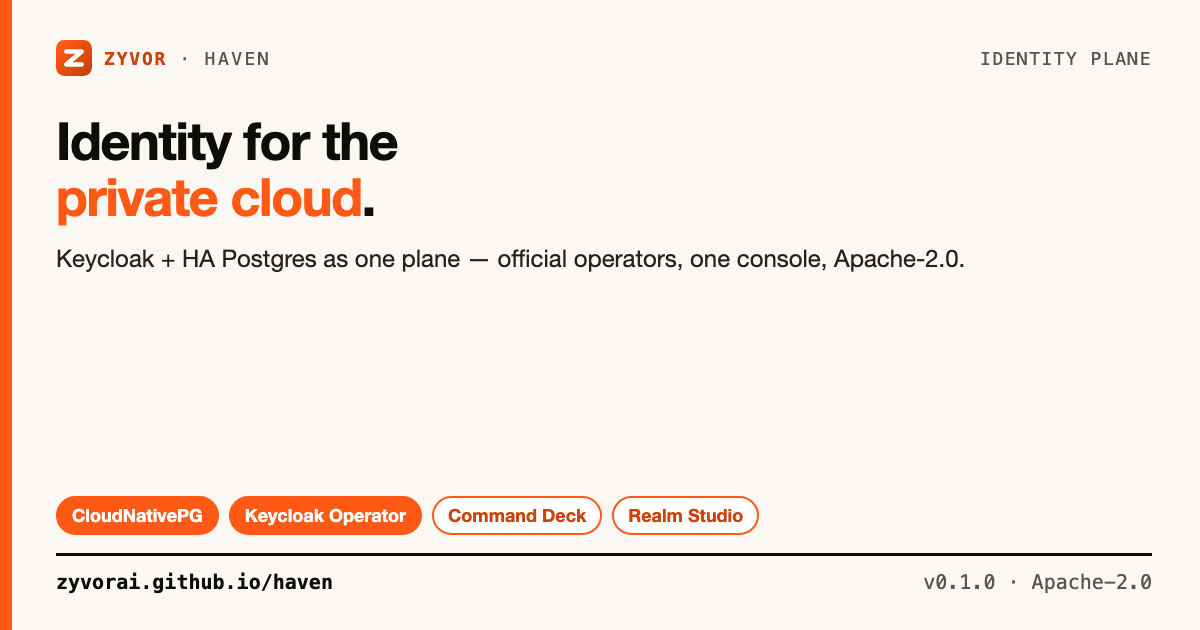
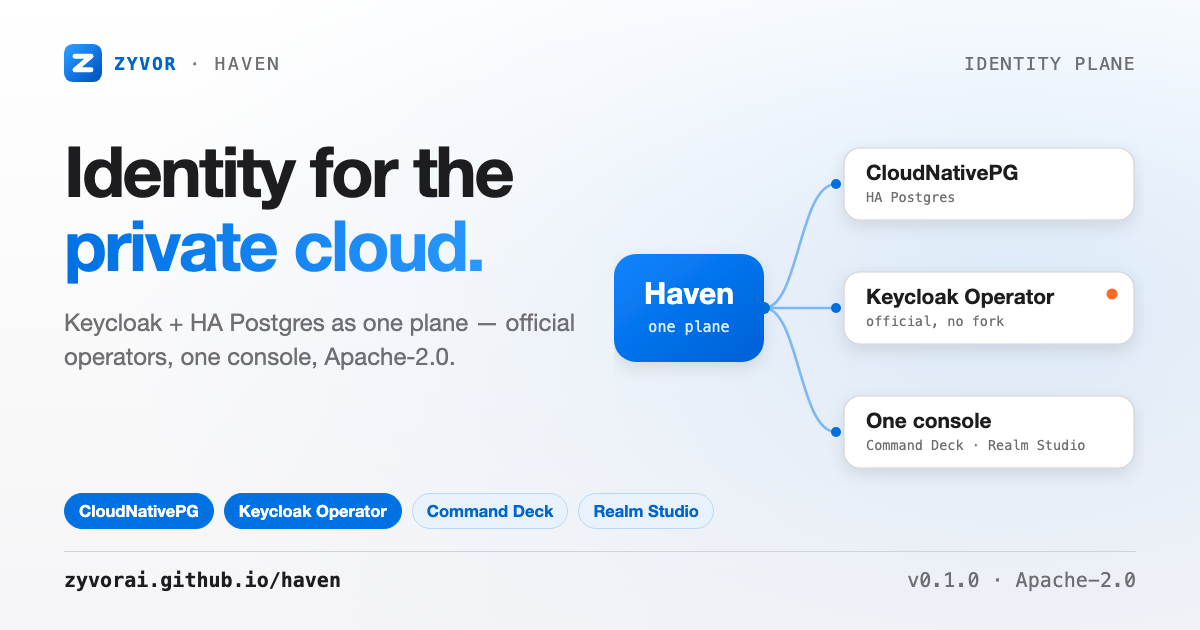
docs(social): apple-style blue/white cards, dark variant, build script
Restyle the share and 16:9 cards in the blue/white palette with an inline blue
Z mark and a single orange dot per image, add a dark share card for the README
<picture>, extend build-social-card.sh to render it, and document the palette,
files and the manual GitHub Social preview upload. Facts unchanged (v0.1.0 from
Chart.yaml, Apache-2.0).

Changed region(s): [[0.0, 0.0, 0.9867, 1.0], [0.8017, 0.0603, 0.9558, 0.1206]]

diff --git a/docs/social/haven-social-card.html b/docs/social/haven-social-card.html
@@ -4,75 +4,80 @@
 <meta charset="utf-8">
 <title>Haven social card</title>
 <!--
-  1600x900 (16:9) card for LinkedIn and X, in the Zyvor brochure look.
-  Every claim is already sourced in the README / docs.
+  1600x900 (16:9) card for LinkedIn and X. Every claim is already sourced in the README / docs.
+  Palette: white/#f5f5f7, ink #1d1d1f, secondary #6e6e73, hairline #d2d2d7, blue #0071e3 -> #2997ff.
+  Orange (#ff6a2a) appears once, as a single dot in the plane strip.
   Build:  ./docs/social/build-social-card.sh   ->  haven-social-card.jpg
 -->
 <style>
-  :root { --ink:#0d0d0c; --soft:#5a544c; --signal:#ff5a15; --deep:#cc420a; --line:#e7ded2; --warm:#fbf7f2; --pale:#fff1e9;
-    --blue:#2b5fd9; --green:#1f7a4d;
+  :root { --ink:#1d1d1f; --soft:#6e6e73; --hair:#d2d2d7; --blue:#0071e3; --blue2:#2997ff; --deep:#0066cc; --wash:#f5f5f7;
+    --pill:#e8f2fd; --pill-line:#b9d7f7; --orange:#ff6a2a;
     --sans:'Helvetica Neue',Helvetica,Arial,sans-serif; --mono:'SF Mono',Menlo,Consolas,monospace; }
   * { box-sizing:border-box; }
   html,body { margin:0; padding:0; }
-  body { width:1600px; height:900px; overflow:hidden; background:var(--warm); color:var(--ink); font-family:var(--sans); position:relative; }
-  .bar { position:absolute; left:0; top:0; bottom:0; width:14px; background:var(--signal); }
-  .wrap { position:absolute; left:72px; right:64px; top:48px; bottom:40px; display:flex; flex-direction:column; }
+  body { width:1600px; height:900px; overflow:hidden; color:var(--ink); font-family:var(--sans); position:relative;
+    background:radial-gradient(1100px 620px at 88% 12%, rgba(0,113,227,.10), rgba(0,113,227,.03) 55%, rgba(0,113,227,0) 100%), linear-gradient(180deg,#fff 0%,var(--wash) 100%); }
+  .wrap { position:absolute; left:80px; right:80px; top:52px; bottom:44px; display:flex; flex-direction:column; }
 
   .top { display:flex; align-items:center; gap:14px; font-family:var(--mono); font-size:20px; letter-spacing:.14em; text-transform:uppercase; color:var(--soft); }
-  .top img { height:40px; }
+  .top svg { width:44px; height:44px; }
   .top b { color:var(--deep); letter-spacing:.1em; }
   .top .r { margin-left:auto; letter-spacing:.08em; }
 
-  h1 { margin:26px 0 0; font-size:64px; line-height:1.06; letter-spacing:-.025em; font-weight:700; max-width:1440px; }
-  h1 em { font-style:normal; color:var(--signal); }
-  .sub { margin:16px 0 0; font-size:27px; line-height:1.36; color:#26231f; max-width:1320px; }
+  h1 { margin:34px 0 0; font-size:76px; line-height:1.05; letter-spacing:-.035em; font-weight:700; max-width:1440px; }
+  h1 em { font-style:normal; background:linear-gradient(90deg,var(--blue),var(--blue2)); -webkit-background-clip:text; background-clip:text; color:transparent; }
+  .sub { margin:18px 0 0; font-size:27px; line-height:1.4; color:var(--soft); max-width:1280px; }
 
-  .flow { margin-top:34px; display:grid; grid-template-columns:repeat(5,1fr); gap:34px; }
-  .step { position:relative; background:#fff; border:2.5px solid var(--c); border-radius:16px; padding:18px 20px 18px 24px; min-height:222px; }
-  .step::before { content:""; position:absolute; left:0; top:0; bottom:0; width:9px; background:var(--c); border-radius:13px 0 0 13px; }
-  .step:not(:last-child)::after { content:""; position:absolute; right:-31px; top:50%; width:0; height:0; margin-top:-11px;
-    border-left:16px solid var(--soft); border-top:11px solid transparent; border-bottom:11px solid transparent; }
-  .lane { display:inline-block; font-family:var(--mono); font-size:15px; font-weight:700; letter-spacing:.12em; color:#fff; background:var(--c); padding:3px 10px; border-radius:11px; }
-  .n { float:right; width:34px; height:34px; border-radius:50%; background:var(--c); color:#fff; font-weight:700; font-size:19px; line-height:34px; text-align:center; }
-  .step h3 { margin:14px 0 8px; font-size:27px; line-height:1.14; letter-spacing:-.01em; }
-  .step p { margin:0; font-size:20.5px; line-height:1.34; color:var(--soft); }
-  .k { --c:var(--signal); } .a { --c:var(--ink); } .c { --c:var(--blue); } .o { --c:var(--green); } .o2 { --c:var(--deep); }
+  .flow { margin-top:38px; display:grid; grid-template-columns:repeat(5,1fr); gap:30px; }
+  .step { position:relative; background:#fff; border:1.5px solid var(--hair); border-radius:20px; padding:20px 22px 20px 22px; min-height:236px;
+    box-shadow:0 10px 24px rgba(0,0,0,.07), 0 1px 3px rgba(0,0,0,.05); }
+  .step:not(:last-child)::after { content:""; position:absolute; right:-25px; top:50%; width:0; height:0; margin-top:-9px;
+    border-left:13px solid #9cc7f5; border-top:9px solid transparent; border-bottom:9px solid transparent; }
+  .lane { display:inline-block; font-family:var(--mono); font-size:14.5px; font-weight:700; letter-spacing:.12em; color:var(--deep); background:var(--pill); border:1px solid var(--pill-line); padding:3px 10px; border-radius:11px; }
+  .n { float:right; width:34px; height:34px; border-radius:50%; background:linear-gradient(135deg,var(--blue2),var(--blue)); color:#fff; font-weight:700; font-size:18px; line-height:34px; text-align:center; }
+  .step h3 { margin:16px 0 8px; font-size:27px; line-height:1.14; letter-spacing:-.015em; }
+  .step p { margin:0; font-size:20px; line-height:1.36; color:var(--soft); }
+  .step p b { color:var(--ink); }
+  .step code { font-family:var(--mono); font-size:.9em; }
 
-  .attr { margin-top:22px; display:flex; align-items:center; gap:16px; background:var(--ink); color:#f3ede4; border-radius:12px; padding:13px 22px; font-family:var(--mono); font-size:22px; white-space:nowrap; }
-  .attr .tag { color:var(--signal); font-weight:700; letter-spacing:.1em; font-size:16px; }
-  .attr .why { margin-left:auto; color:#a39a8d; font-size:15px; letter-spacing:.06em; text-transform:uppercase; }
+  .attr { margin-top:26px; display:flex; align-items:center; gap:16px; background:var(--ink); color:#f5f5f7; border-radius:16px; padding:15px 24px; font-family:var(--mono); font-size:22px; white-space:nowrap; }
+  .attr .tag { color:#64b5ff; font-weight:700; letter-spacing:.1em; font-size:16px; display:flex; align-items:center; gap:10px; }
+  .attr .tag i { display:inline-block; width:10px; height:10px; border-radius:50%; background:var(--orange); }
+  .attr .why { margin-left:auto; color:#a1a1a6; font-size:15px; letter-spacing:.06em; text-transform:uppercase; }
 
-  .chips { margin-top:auto; padding-top:22px; display:flex; flex-wrap:wrap; gap:10px; }
-  .chip { font-size:20px; font-weight:700; padding:5px 14px; border-radius:20px; background:var(--signal); color:#fff; letter-spacing:.02em; border:2px solid var(--signal); }
-  .chip.g { background:#fff; color:var(--deep); border:2px solid var(--signal); }
+  .chips { margin-top:auto; padding-top:24px; display:flex; flex-wrap:wrap; gap:10px; }
+  .chip { font-size:20px; font-weight:700; padding:7px 18px; border-radius:24px; background:var(--blue); color:#fff; letter-spacing:.01em; border:1.5px solid var(--blue); }
+  .chip.g { background:var(--pill); color:var(--deep); border:1.5px solid var(--pill-line); }
 
-  .foot { margin-top:18px; padding-top:14px; border-top:3px solid var(--ink); display:flex; align-items:center; font-family:var(--mono); font-size:22px; color:var(--soft); }
+  .foot { margin-top:20px; padding-top:16px; border-top:1px solid var(--hair); display:flex; align-items:center; font-family:var(--mono); font-size:22px; color:var(--soft); }
   .foot b { color:var(--ink); }
   .foot .r { margin-left:auto; }
 </style>
 </head>
 <body>
-<div class="bar"></div>
 <div class="wrap">
-  <div class="top"><img src="../assets/readme/zyvor-logo.svg" alt=""><b>Zyvor</b><span>&middot;</span><span>Haven</span><span class="r">Identity plane &middot; Private cloud</span></div>
+  <div class="top">
+    <svg viewBox="0 0 64 64" role="img" aria-label="Zyvor"><defs><linearGradient id="zg" x1="8" y1="8" x2="56" y2="56" gradientUnits="userSpaceOnUse"><stop offset="0" stop-color="#2997ff"/><stop offset="1" stop-color="#0058c8"/></linearGradient></defs><rect width="64" height="64" rx="15" fill="url(#zg)"/><path d="M18.5,20.5 45.5,20.5 18.5,43.5 45.5,43.5" fill="none" stroke="#fff" stroke-width="8.3" stroke-linecap="round" stroke-linejoin="round"/></svg>
+    <b>Zyvor</b><span>&middot;</span><span>Haven</span><span class="r">Identity plane &middot; Private cloud</span>
+  </div>
 
-  <h1>Identity for the <em>private cloud</em>.</h1>
+  <h1>Identity for the <em>private cloud.</em></h1>
   <p class="sub">One intent. One console. Official Keycloak + HA Postgres that actually ship together — no forks, no scavenger-hunt first boot.</p>
 
   <div class="flow">
-    <div class="step k"><span class="lane">COMPOSE</span><span class="n">1</span>
+    <div class="step"><span class="lane">COMPOSE</span><span class="n">1</span>
       <h3>One plane</h3><p>CloudNativePG and the Keycloak Operator under one lifecycle. Database is not “bring your own.”</p></div>
-    <div class="step a"><span class="lane">DEPLOY</span><span class="n">2</span>
+    <div class="step"><span class="lane">DEPLOY</span><span class="n">2</span>
       <h3>Overlays today</h3><p><b>deploy/overlays/{dev,prod}</b> now; <b>IdentityPlane</b> CR when the controller ships in v1.</p></div>
-    <div class="step c"><span class="lane">BOOTSTRAP</span><span class="n">3</span>
+    <div class="step"><span class="lane">BOOTSTRAP</span><span class="n">3</span>
       <h3>Ready URL</h3><p>Wizard, generated secrets, operator bootstrap — not hunting <code>-initial-admin</code> in Slack.</p></div>
-    <div class="step o"><span class="lane">OPERATE</span><span class="n">4</span>
+    <div class="step"><span class="lane">OPERATE</span><span class="n">4</span>
       <h3>One console</h3><p>Command Deck, Realm Studio, Atlas — plane health, DB, realms, clients without two UIs.</p></div>
-    <div class="step o2"><span class="lane">DAY-2</span><span class="n">5</span>
+    <div class="step"><span class="lane">DAY-2</span><span class="n">5</span>
       <h3>Tenants &amp; backups</h3><p>Realms as first-class tenants. Platform OIDC clients. Backups and private-cloud defaults.</p></div>
   </div>
 
-  <div class="attr"><span class="tag">PLANE</span><span>IdentityPlane &nbsp;→&nbsp; CloudNativePG &nbsp;+&nbsp; Keycloak CR &nbsp;+&nbsp; Certs / Gateway</span><span class="why">Illustrative</span></div>
+  <div class="attr"><span class="tag"><i></i>PLANE</span><span>IdentityPlane &nbsp;→&nbsp; CloudNativePG &nbsp;+&nbsp; Keycloak CR &nbsp;+&nbsp; Certs / Gateway</span><span class="why">Illustrative</span></div>
 
   <div class="chips">
     <span class="chip">Official operators</span><span class="chip">HA Postgres</span>

diff --git a/docs/social/haven-share-card-dark.html b/docs/social/haven-share-card-dark.html
@@ -2,21 +2,21 @@
 <html lang="en">
 <head>
 <meta charset="utf-8">
-<title>Haven share card</title>
+<title>Haven share card (dark)</title>
 <!--
-  1200x630 Open Graph / README hero card (light). Dark twin: haven-share-card-dark.html.
+  1200x630 Open Graph / README hero card (dark). Light twin: haven-share-card.html (differs only in the palette variables and body background).
   Build:  ./docs/social/build-social-card.sh
-  Palette: white/#f5f5f7, ink #1d1d1f, secondary #6e6e73, hairline #d2d2d7,
-  blue #0071e3 -> #2997ff. Orange (#ff6a2a) appears once, as a single dot.
+  Palette: #000/#0b0b0f, text #f5f5f7, cards #1d1d1f, hairline #2c2c2e,
+  blue #2997ff. Orange (#ff6a2a) appears once, as a single dot.
 -->
 <style>
-  :root { --ink:#1d1d1f; --soft:#6e6e73; --hair:#d2d2d7; --blue:#0071e3; --blue2:#2997ff; --deep:#0066cc; --wash:#f5f5f7;
-    --card:#ffffff; --chip-g-bg:#e8f2fd; --chip-g-line:#b9d7f7; --wire:#7db8f5; --orange:#ff6a2a;
+  :root { --ink:#f5f5f7; --soft:#a1a1a6; --hair:#2c2c2e; --blue:#0a84ff; --blue2:#64b5ff; --deep:#64b5ff; --wash:#0b0b0f;
+    --card:#1d1d1f; --chip-g-bg:#0d2136; --chip-g-line:#1e4a78; --wire:#2a6fbd; --orange:#ff6a2a;
     --sans:'Helvetica Neue',Helvetica,Arial,sans-serif; --mono:'SF Mono',Menlo,Consolas,monospace; }
   * { box-sizing:border-box; }
   html,body { margin:0; padding:0; }
   body { width:1200px; height:630px; overflow:hidden; color:var(--ink); font-family:var(--sans); position:relative;
-    background:radial-gradient(900px 520px at 84% 46%, rgba(0,113,227,.12), rgba(0,113,227,.04) 55%, rgba(0,113,227,0) 100%), linear-gradient(180deg,#fff 0%,var(--wash) 100%); }
+    background:radial-gradient(900px 520px at 84% 46%, rgba(41,151,255,.20), rgba(41,151,255,.06) 55%, rgba(41,151,255,0) 100%), linear-gradient(180deg,#000 0%,var(--wash) 100%); }
   .wrap { position:absolute; left:64px; right:64px; top:44px; bottom:38px; display:flex; flex-direction:column; }
 
   .top { display:flex; align-items:center; gap:12px; font-family:var(--mono); font-size:18px; letter-spacing:.14em; text-transform:uppercase; color:var(--soft); }
@@ -72,7 +72,7 @@
 
 <svg class="diagram" viewBox="0 0 530 380" role="img" aria-label="Haven: one plane composing CloudNativePG, the Keycloak Operator and one console">
   <defs>
-    <filter id="sh" x="-20%" y="-20%" width="140%" height="150%"><feDropShadow dx="0" dy="6" stdDeviation="8" flood-color="#000" flood-opacity=".10"/></filter>
+    <filter id="sh" x="-20%" y="-20%" width="140%" height="150%"><feDropShadow dx="0" dy="6" stdDeviation="8" flood-color="#000" flood-opacity=".55"/></filter>
     <linearGradient id="hub" x1="0" y1="0" x2="1" y2="1"><stop offset="0" stop-color="#0a84ff"/><stop offset="1" stop-color="#0060d6"/></linearGradient>
   </defs>
   <g class="wire">

diff --git a/docs/social/README.md b/docs/social/README.md
@@ -2,11 +2,25 @@
 
 | File | What it is | Rebuild |
 |---|---|---|
-| `haven-share-card.png` | 1200×630 card: the README hero and Open Graph preview | `./docs/social/build-social-card.sh` |
+| `haven-share-card.html` / `.png` | 1200×630 light card: the README hero and the Open Graph preview | `./docs/social/build-social-card.sh` |
+| `haven-share-card-dark.html` / `.png` | 1200×630 dark twin for the README `<picture>` (differs only in palette variables and background) | same script |
 | `haven-social-card.html` / `.jpg` | 1600×900 (16:9) card for LinkedIn and X: the identity-plane story in five steps | same script |
-| `haven-share-card.html` | Source for the 1200×630 share card | same script |
 
-Needs Google Chrome and macOS `sips` (already on a Mac); nothing is installed.
+Needs Google Chrome and macOS `sips` (already on a Mac); nothing is installed. Override the
+browser with `CHROME=/path/to/chrome`. The script takes optional output paths:
+`build-social-card.sh [social.jpg] [share.png] [share-dark.png]`.
 
-Every claim on the social card is already sourced in the project README and docs.
-Licence wording follows `LICENSE`: Apache License 2.0.
+## Palette
+
+Apple-style blue and white. White to `#f5f5f7` background with a faint blue wash, ink `#1d1d1f`,
+secondary `#6e6e73`, hairline `#d2d2d7`, blue `#0071e3` to `#2997ff`. Dark: `#000`/`#0b0b0f`, text
+`#f5f5f7`, cards `#1d1d1f`, blue `#0a84ff`. Type: Helvetica Neue and Menlo. The Zyvor Z mark is
+drawn inline in blue. Orange (`#ff6a2a`) appears exactly once per image, as a single dot.
+
+## GitHub Social preview
+
+The repository's **Social preview** image (Settings → General → Social preview) cannot be set
+through the API. After a rebuild, upload `haven-share-card.png` there by hand.
+
+Every claim on the cards is already sourced in the project README and docs (version from
+`charts/haven/Chart.yaml`). Licence wording follows `LICENSE`: Apache License 2.0.
